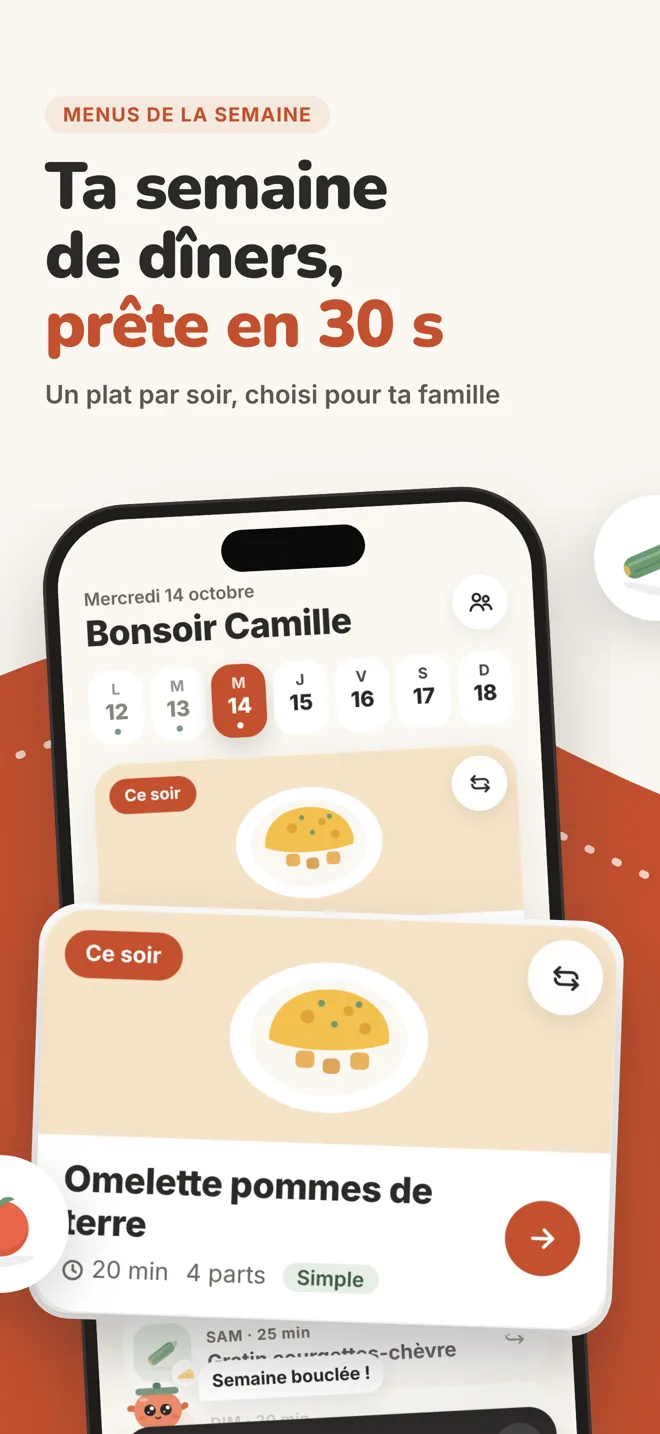
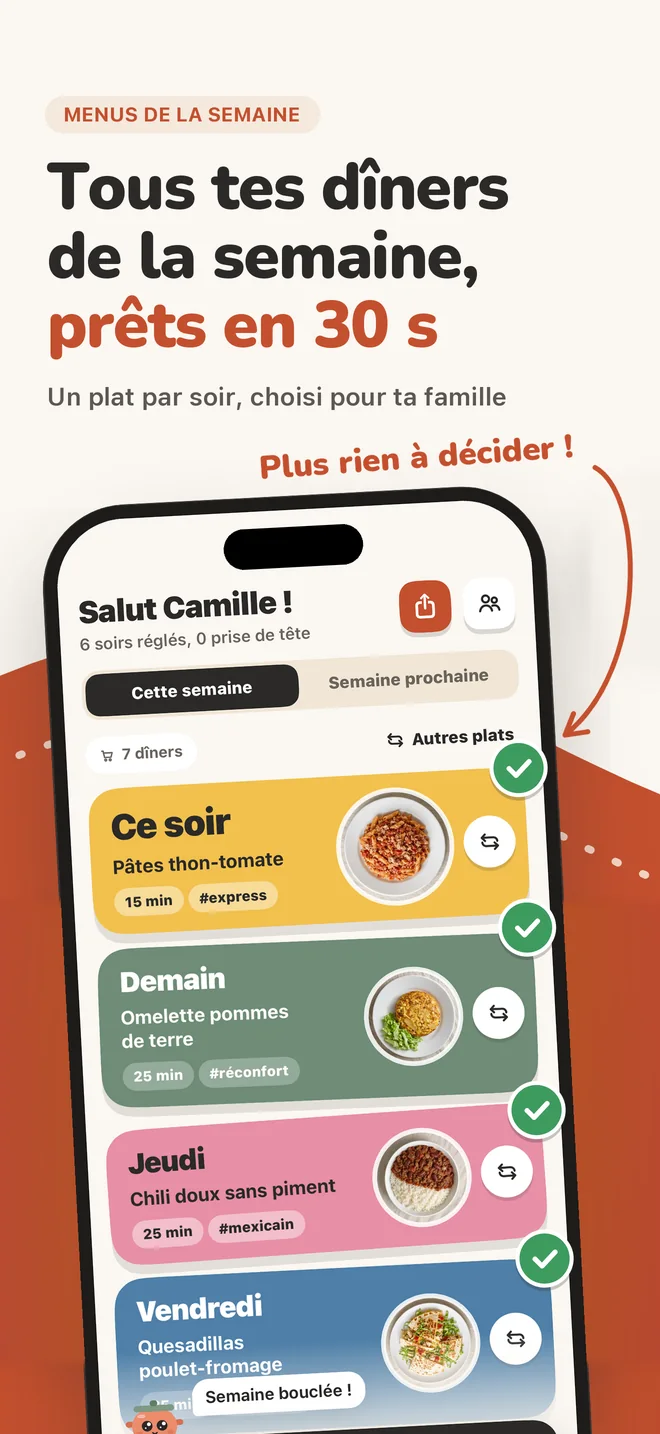
feat(mijo): current Yamzi App Store screenshots on the site, in English and French

diff --git a/fr/mijo/blog/menu-de-la-semaine-famille/index.html b/fr/mijo/blog/menu-de-la-semaine-famille/index.html
@@ -47,7 +47,7 @@
 </aside>
 <div class="prose">
 <section id="tldr" class="tldr" aria-labelledby="h-tldr"><h2 id="h-tldr">En bref</h2><ul><li>Planifier les dîners <strong>une fois par semaine</strong> évite la question quotidienne et les courses de dernière minute.</li><li>La clé : des <strong>plats simples</strong> (15 à 25 minutes), adaptés au nombre de personnes et aux aliments exclus.</li><li>Une <strong>liste unique rangée par rayon</strong> regroupe tous les ingrédients de la semaine.</li></ul></section>
-<section id="pourquoi" aria-labelledby="h-pourquoi"><h2 id="h-pourquoi">Pourquoi planifier une fois par semaine</h2><p>Décider chaque soir, c’est cumuler la fatigue de la journée et la contrainte du frigo. Planifier le dimanche permet de choisir au calme, d’équilibrer la semaine et de n’aller faire les courses qu’une fois.</p><p>Le plus important n’est pas la recette parfaite : c’est de savoir, à 17 h 30, ce qu’on cuisine ce soir.</p></section><section id="methode" aria-labelledby="h-methode"><h2 id="h-methode">La méthode en quatre étapes</h2><p>1. Comptez qui mange à la maison (un enfant compte pour une demi-portion). 2. Choisissez les soirs où vous voulez un dîner prêt. 3. Listez les aliments à exclure. 4. Répartissez viande, poisson et soirs végé.</p><figure class="figure"><img src="/assets/site/img/fr/mijo_03-courses.webp" alt="Liste de courses de Yamzi rangée par rayon" width="660" height="1434" loading="lazy"><figcaption>La liste de courses de la semaine, rangée par rayon dans Yamzi.</figcaption></figure><p>Ensuite, additionnez les ingrédients et rangez-les par rayon : fruits et légumes, frais, épicerie, surgelés. C’est exactement ce que fait Yamzi, en 30 secondes.</p></section>
+<section id="pourquoi" aria-labelledby="h-pourquoi"><h2 id="h-pourquoi">Pourquoi planifier une fois par semaine</h2><p>Décider chaque soir, c’est cumuler la fatigue de la journée et la contrainte du frigo. Planifier le dimanche permet de choisir au calme, d’équilibrer la semaine et de n’aller faire les courses qu’une fois.</p><p>Le plus important n’est pas la recette parfaite : c’est de savoir, à 17 h 30, ce qu’on cuisine ce soir.</p></section><section id="methode" aria-labelledby="h-methode"><h2 id="h-methode">La méthode en quatre étapes</h2><p>1. Comptez qui mange à la maison (un enfant compte pour une demi-portion). 2. Choisissez les soirs où vous voulez un dîner prêt. 3. Listez les aliments à exclure. 4. Répartissez viande, poisson et soirs végé.</p><figure class="figure"><img src="/assets/site/img/fr/mijo_07-courses.webp" alt="Liste de courses de Yamzi rangée par rayon" width="660" height="1434" loading="lazy"><figcaption>La liste de courses de la semaine, rangée par rayon dans Yamzi.</figcaption></figure><p>Ensuite, additionnez les ingrédients et rangez-les par rayon : fruits et légumes, frais, épicerie, surgelés. C’est exactement ce que fait Yamzi, en 30 secondes.</p></section>
 <section id="table" class="sans" aria-labelledby="h-table"><h2 id="h-table">Tableau récapitulatif</h2><div class="table-box"><table><caption>Fonctionnalités de Yamzi d’après sa fiche App Store.</caption><thead><tr><th scope=col>Étape</th><th scope=col>À la main</th><th scope=col>Avec Yamzi</th></tr></thead><tbody><tr><th scope="row">Choisir les plats</th><td>Chercher des idées pour chaque soir</td><td>Une semaine proposée en 30 secondes</td></tr><tr><th scope="row">Adapter les quantités</th><td>Recalculer chaque recette</td><td>Ajustées au foyer automatiquement</td></tr><tr><th scope="row">Exclusions</th><td>Vérifier chaque ingrédient</td><td>Jamais proposées, même en remplacement</td></tr><tr><th scope="row">Liste de courses</th><td>Recopier et additionner</td><td>Une liste unique, rangée par rayon</td></tr><tr><th scope="row">Le soir même</th><td>Retrouver la recette</td><td>Mode cuisine pas à pas, minuteur</td></tr></tbody></table></div></section>
 <section id="choose" aria-labelledby="h-choose"><h2 id="h-choose">Papier ou app ?</h2><div class="choose"><div><h3>Le papier suffit si…</h3><p>vous cuisinez souvent les mêmes plats et aimez prendre le temps de planifier.</p></div><div class=on><h3>Yamzi est fait pour vous si…</h3><p>vous voulez une semaine prête en 30 secondes, avec la liste de courses et les exclusions gérées.</p></div></div></section>
 <section id="faq" class="faq" aria-labelledby="h-faq"><h2 id="h-faq">Questions fréquentes</h2><details><summary>Combien de dîners prévoir par semaine ?</summary><p>Seulement les soirs où vous cuisinez à la maison : Yamzi vous laisse choisir les soirs.</p></details><details><summary>Comment gérer un enfant qui ne mange pas de tout ?</summary><p>Excluez les aliments concernés : ils n’apparaîtront ni dans le menu ni dans les plats de remplacement.</p></details><details><summary>Peut-on partager la liste de courses ?</summary><p>Oui, la liste se partage en un tap.</p></details></section>

diff --git a/mijo/blog/weekly-family-meal-plan/index.html b/mijo/blog/weekly-family-meal-plan/index.html
@@ -47,7 +47,7 @@
 </aside>
 <div class="prose">
 <section id="tldr" class="tldr" aria-labelledby="h-tldr"><h2 id="h-tldr">In short</h2><ul><li>Planning dinners <strong>once a week</strong> removes the daily question and last-minute shopping trips.</li><li>The key: <strong>simple dishes</strong> (15 to 25 minutes), sized for your household and free of excluded foods.</li><li>A <strong>single list sorted by aisle</strong> gathers every ingredient for the week.</li></ul></section>
-<section id="why" aria-labelledby="h-why"><h2 id="h-why">Why plan once a week</h2><p>Deciding every evening stacks the day’s fatigue on top of whatever is in the fridge. Planning on Sunday lets you choose calmly, balance the week and shop only once.</p><p>What matters is not the perfect recipe: it is knowing, at 5:30 pm, what you are cooking tonight.</p></section><section id="method" aria-labelledby="h-method"><h2 id="h-method">The four-step method</h2><p>1. Count who eats at home (a child counts as half a portion). 2. Pick the evenings you want a dinner planned. 3. List the foods to exclude. 4. Spread meat, fish and veggie nights across the week.</p><figure class="figure"><img src="/assets/site/img/fr/mijo_03-courses.webp" alt="Yamzi grocery list sorted by aisle" width="660" height="1434" loading="lazy"><figcaption>The week’s grocery list, sorted by aisle in Yamzi.</figcaption></figure><p>Then add up the ingredients and sort them by aisle: fruit and veg, chilled, pantry, frozen. That is exactly what Yamzi does, in 30 seconds.</p></section>
+<section id="why" aria-labelledby="h-why"><h2 id="h-why">Why plan once a week</h2><p>Deciding every evening stacks the day’s fatigue on top of whatever is in the fridge. Planning on Sunday lets you choose calmly, balance the week and shop only once.</p><p>What matters is not the perfect recipe: it is knowing, at 5:30 pm, what you are cooking tonight.</p></section><section id="method" aria-labelledby="h-method"><h2 id="h-method">The four-step method</h2><p>1. Count who eats at home (a child counts as half a portion). 2. Pick the evenings you want a dinner planned. 3. List the foods to exclude. 4. Spread meat, fish and veggie nights across the week.</p><figure class="figure"><img src="/assets/site/img/en/mijo_07-courses.webp" alt="Yamzi grocery list sorted by aisle" width="660" height="1434" loading="lazy"><figcaption>The week’s grocery list, sorted by aisle in Yamzi.</figcaption></figure><p>Then add up the ingredients and sort them by aisle: fruit and veg, chilled, pantry, frozen. That is exactly what Yamzi does, in 30 seconds.</p></section>
 <section id="table" class="sans" aria-labelledby="h-table"><h2 id="h-table">Summary table</h2><div class="table-box"><table><caption>Yamzi features based on its App Store listing.</caption><thead><tr><th scope=col>Step</th><th scope=col>By hand</th><th scope=col>With Yamzi</th></tr></thead><tbody><tr><th scope="row">Choosing dishes</th><td>Hunting for ideas every night</td><td>A week suggested in 30 seconds</td></tr><tr><th scope="row">Adjusting portions</th><td>Recalculating every recipe</td><td>Sized to your household automatically</td></tr><tr><th scope="row">Exclusions</th><td>Checking every ingredient</td><td>Never suggested, not even as a swap</td></tr><tr><th scope="row">Grocery list</th><td>Copying and adding up</td><td>One list, sorted by aisle</td></tr><tr><th scope="row">On the night</th><td>Finding the recipe</td><td>Step-by-step cooking mode with timer</td></tr></tbody></table></div></section>
 <section id="choose" aria-labelledby="h-choose"><h2 id="h-choose">Paper or app?</h2><div class="choose"><div><h3>Paper is enough if…</h3><p>you often cook the same dishes and enjoy taking time to plan.</p></div><div class=on><h3>Yamzi is for you if…</h3><p>you want a week ready in 30 seconds, with the grocery list and exclusions handled.</p></div></div></section>
 <section id="faq" class="faq" aria-labelledby="h-faq"><h2 id="h-faq">Frequently asked questions</h2><details><summary>How many dinners should I plan per week?</summary><p>Only the evenings you cook at home: Yamzi lets you choose which ones.</p></details><details><summary>How do I handle a picky child?</summary><p>Exclude the foods in question: they will not appear in the plan or in swaps.</p></details><details><summary>Can I share the grocery list?</summary><p>Yes, the list can be shared in one tap.</p></details></section>

diff --git a/fr/mijo/index.html b/fr/mijo/index.html
@@ -41,11 +41,11 @@
 <p class="lead">Yamzi prépare vos dîners de la semaine et la liste de courses qui va avec, en 30 secondes. Des plats de 15 à 25 minutes, adaptés à toute la famille.</p>
 <div class="app-hero__cta"><a class="btn-appstore" href="https://apps.apple.com/fr/app/id6820227149"><svg width="22" height="22" viewBox="0 0 24 24" fill="none" aria-hidden="true"><path d="M12 3v12m0 0l-5-5m5 5l5-5M5 20h14" stroke="currentColor" stroke-width="1.8" stroke-linecap="round" stroke-linejoin="round"/></svg><span><small>Télécharger dans</small><strong>l’App Store</strong></span></a><span class="app-hero__price">Gratuit au téléchargement · abonnement annuel ou mensuel · sans compte, sans pub</span></div>
 </div>
-<figure class="device"><img src="/assets/site/img/fr/mijo_02-semaine.webp" alt="La semaine de dîners prête en 30 secondes" width="660" height="1434" fetchpriority="high"></figure>
+<figure class="device"><img src="/assets/site/img/fr/mijo_02-semaine.webp" alt="Tous tes dîners de la semaine, prêts en 30 secondes" width="660" height="1434" fetchpriority="high"></figure>
 </section>
 <section class="sect" style="padding-top:0;overflow:hidden" aria-labelledby="shots-t"><div class="wrap">
 <div class="sect-head" style="margin-bottom:28px"><h2 id="shots-t" class="h3" style="font-size:clamp(28px,3vw,40px)">Yamzi en images</h2><p class="muted" style="margin:0;font-size:15px">Faites défiler les captures de l’App Store</p></div>
-<ul class="shots"><li><img src="/assets/site/img/fr/mijo_01-hero.webp" alt="Fini le casse-tête du dîner" width="660" height="1434" loading="lazy"></li><li><img src="/assets/site/img/fr/mijo_02-semaine.webp" alt="La semaine de dîners prête en 30 secondes" width="660" height="1434" loading="lazy"></li><li><img src="/assets/site/img/fr/mijo_03-courses.webp" alt="Liste de courses rangée par rayon" width="660" height="1434" loading="lazy"></li><li><img src="/assets/site/img/fr/mijo_04-des.webp" alt="Changer un plat d’un coup de dés" width="660" height="1434" loading="lazy"></li><li><img src="/assets/site/img/fr/mijo_05-cuisine.webp" alt="Mode cuisine pas à pas" width="660" height="1434" loading="lazy"></li></ul>
+<ul class="shots"><li><img src="/assets/site/img/fr/mijo_01-hero.webp" alt="On mange quoi ce soir ? Yamzi choisit les dîners de toute la semaine" width="660" height="1434" loading="lazy"></li><li><img src="/assets/site/img/fr/mijo_02-semaine.webp" alt="Tous tes dîners de la semaine, prêts en 30 secondes" width="660" height="1434" loading="lazy"></li><li><img src="/assets/site/img/fr/mijo_03-deux.webp" alt="Le dîner se décide à deux, en un message" width="660" height="1434" loading="lazy"></li><li><img src="/assets/site/img/fr/mijo_04-des.webp" alt="Changer un plat : healthy, végétarien, réconfort ou au hasard" width="660" height="1434" loading="lazy"></li><li><img src="/assets/site/img/fr/mijo_05-cuisine.webp" alt="Les recettes étape par étape, avec minuteur" width="660" height="1434" loading="lazy"></li><li><img src="/assets/site/img/fr/mijo_06-famille.webp" alt="Sans porc, sans gluten : allergies, goûts et portions pris en compte" width="660" height="1434" loading="lazy"></li><li><img src="/assets/site/img/fr/mijo_07-courses.webp" alt="Ta liste de courses rangée par rayon, déjà estimée" width="660" height="1434" loading="lazy"></li><li><img src="/assets/site/img/fr/mijo_08-rappel.webp" alt="Un rappel à 17 h 30 : ce soir, plus de prise de tête" width="660" height="1434" loading="lazy"></li></ul>
 </div></section>
 <section id="features" class="sect sect--paper" aria-labelledby="feat-t"><div class="wrap">
 <p class="eyebrow">Fonctionnalités</p>

diff --git a/mijo/index.html b/mijo/index.html
@@ -41,11 +41,11 @@
 <p class="lead">Yamzi plans your dinners for the week and the grocery list that goes with them, in 30 seconds. Easy 15–25 minute meals that suit the whole family.</p>
 <div class="app-hero__cta"><a class="btn-appstore" href="https://apps.apple.com/app/id6820227149"><svg width="22" height="22" viewBox="0 0 24 24" fill="none" aria-hidden="true"><path d="M12 3v12m0 0l-5-5m5 5l5-5M5 20h14" stroke="currentColor" stroke-width="1.8" stroke-linecap="round" stroke-linejoin="round"/></svg><span><small>Download on the</small><strong>App Store</strong></span></a><span class="app-hero__price">Free download · yearly or monthly subscription · no account, no ads</span></div>
 </div>
-<figure class="device"><img src="/assets/site/img/fr/mijo_02-semaine.webp" alt="Your week of dinners ready in 30 seconds" width="660" height="1434" fetchpriority="high"></figure>
+<figure class="device"><img src="/assets/site/img/en/mijo_02-semaine.webp" alt="All your dinners for the week, ready in 30 seconds" width="660" height="1434" fetchpriority="high"></figure>
 </section>
 <section class="sect" style="padding-top:0;overflow:hidden" aria-labelledby="shots-t"><div class="wrap">
 <div class="sect-head" style="margin-bottom:28px"><h2 id="shots-t" class="h3" style="font-size:clamp(28px,3vw,40px)">Yamzi in pictures</h2><p class="muted" style="margin:0;font-size:15px">Swipe through the App Store screenshots</p></div>
-<ul class="shots"><li><img src="/assets/site/img/fr/mijo_01-hero.webp" alt="No more dinner headaches" width="660" height="1434" loading="lazy"></li><li><img src="/assets/site/img/fr/mijo_02-semaine.webp" alt="Your week of dinners ready in 30 seconds" width="660" height="1434" loading="lazy"></li><li><img src="/assets/site/img/fr/mijo_03-courses.webp" alt="Grocery list sorted by aisle" width="660" height="1434" loading="lazy"></li><li><img src="/assets/site/img/fr/mijo_04-des.webp" alt="Swap a dish with a roll of the dice" width="660" height="1434" loading="lazy"></li><li><img src="/assets/site/img/fr/mijo_05-cuisine.webp" alt="Step-by-step cooking mode" width="660" height="1434" loading="lazy"></li></ul>
+<ul class="shots"><li><img src="/assets/site/img/en/mijo_01-hero.webp" alt="What’s for dinner tonight? Yamzi plans your dinners for the whole week" width="660" height="1434" loading="lazy"></li><li><img src="/assets/site/img/en/mijo_02-semaine.webp" alt="All your dinners for the week, ready in 30 seconds" width="660" height="1434" loading="lazy"></li><li><img src="/assets/site/img/en/mijo_03-deux.webp" alt="Settle dinner together in just one message" width="660" height="1434" loading="lazy"></li><li><img src="/assets/site/img/en/mijo_04-des.webp" alt="Swap a dish: healthy, veggie, comfort or at random" width="660" height="1434" loading="lazy"></li><li><img src="/assets/site/img/en/mijo_05-cuisine.webp" alt="Step-by-step recipes with a built-in timer" width="660" height="1434" loading="lazy"></li><li><img src="/assets/site/img/en/mijo_06-famille.webp" alt="No pork, no gluten: allergies, tastes and portions taken into account" width="660" height="1434" loading="lazy"></li><li><img src="/assets/site/img/en/mijo_07-courses.webp" alt="Your grocery list sorted by aisle" width="660" height="1434" loading="lazy"></li><li><img src="/assets/site/img/en/mijo_08-rappel.webp" alt="A quick note at 5:30 pm: tonight, no more dinner stress" width="660" height="1434" loading="lazy"></li></ul>
 </div></section>
 <section id="features" class="sect sect--paper" aria-labelledby="feat-t"><div class="wrap">
 <p class="eyebrow">Features</p>

diff --git a/fr/mijo/blog/index.html b/fr/mijo/blog/index.html
@@ -34,7 +34,7 @@
 <main id="main">
 <nav class="wrap crumbs" aria-label="Fil d’Ariane"><ol><li><a href="/fr/">Accueil</a></li><li><a href="/fr/mijo/">Yamzi</a></li><li aria-current="page">Blog</li></ol></nav>
 <section class="wrap blog-hero" aria-labelledby="blog-t"><h1 id="blog-t" class="h-display">Les dîners de la semaine, sans charge mentale.</h1><p class="lead">Méthodes de planification, idées de repas rapides et astuces pour des courses plus simples en famille.</p></section>
-<div class="wrap"><article class="feature-post"><div class="feature-post__art"><img src="/assets/site/img/fr/mijo_03-courses.webp" alt="" width="660" height="1434" loading="lazy"></div><div class="feature-post__body">
+<div class="wrap"><article class="feature-post"><div class="feature-post__art"><img src="/assets/site/img/fr/mijo_07-courses.webp" alt="" width="660" height="1434" loading="lazy"></div><div class="feature-post__body">
 <div class="post-card__meta" style="font-size:14px"><span class="chip chip--tint">Organisation</span><span>8 min de lecture</span></div>
 <h2><a href="/fr/mijo/blog/menu-de-la-semaine-famille/">Menu de la semaine en famille : planifier tous les dîners en 30 secondes</a></h2><p class="muted" style="margin:0;font-size:17px;line-height:1.55">Comment planifier les dîners de la semaine pour toute la famille, gérer les exclusions et faire une seule liste de courses rangée par rayon.</p>
 <a class="link-arrow" href="/fr/mijo/blog/menu-de-la-semaine-famille/">Lire l’article <svg width="16" height="16" viewBox="0 0 16 16" fill="none" aria-hidden="true"><path d="M3 8h10M9 4l4 4-4 4" stroke="currentColor" stroke-width="1.6" stroke-linecap="round" stroke-linejoin="round"/></svg></a></div></article><div style="height:var(--sect)"></div></div>

diff --git a/mijo/blog/index.html b/mijo/blog/index.html
@@ -34,7 +34,7 @@
 <main id="main">
 <nav class="wrap crumbs" aria-label="Breadcrumb"><ol><li><a href="/">Home</a></li><li><a href="/mijo/">Yamzi</a></li><li aria-current="page">Blog</li></ol></nav>
 <section class="wrap blog-hero" aria-labelledby="blog-t"><h1 id="blog-t" class="h-display">Weeknight dinners, without the mental load.</h1><p class="lead">Meal planning methods, quick dinner ideas and tips for simpler family grocery runs.</p></section>
-<div class="wrap"><article class="feature-post"><div class="feature-post__art"><img src="/assets/site/img/fr/mijo_03-courses.webp" alt="" width="660" height="1434" loading="lazy"></div><div class="feature-post__body">
+<div class="wrap"><article class="feature-post"><div class="feature-post__art"><img src="/assets/site/img/en/mijo_07-courses.webp" alt="" width="660" height="1434" loading="lazy"></div><div class="feature-post__body">
 <div class="post-card__meta" style="font-size:14px"><span class="chip chip--tint">Planning</span><span>8 min read</span></div>
 <h2><a href="/mijo/blog/weekly-family-meal-plan/">Weekly family meal plan: plan every dinner in 30 seconds</a></h2><p class="muted" style="margin:0;font-size:17px;line-height:1.55">How to plan the whole family’s dinners for the week, handle food exclusions and build one grocery list sorted by aisle.</p>
 <a class="link-arrow" href="/mijo/blog/weekly-family-meal-plan/">Read the article <svg width="16" height="16" viewBox="0 0 16 16" fill="none" aria-hidden="true"><path d="M3 8h10M9 4l4 4-4 4" stroke="currentColor" stroke-width="1.6" stroke-linecap="round" stroke-linejoin="round"/></svg></a></div></article><div style="height:var(--sect)"></div></div>

diff --git a/_build/content_posts.py b/_build/content_posts.py
@@ -109,7 +109,7 @@ dict(app='mijo', lang='fr', key='mijo-menu', slug='menu-de-la-semaine-famille', 
   bref=['Planifier les dîners <strong>une fois par semaine</strong> évite la question quotidienne et les courses de dernière minute.', 'La clé : des <strong>plats simples</strong> (15 à 25 minutes), adaptés au nombre de personnes et aux aliments exclus.', 'Une <strong>liste unique rangée par rayon</strong> regroupe tous les ingrédients de la semaine.'],
   sections=[
     ('pourquoi', 'Pourquoi planifier une fois par semaine', ['Décider chaque soir, c’est cumuler la fatigue de la journée et la contrainte du frigo. Planifier le dimanche permet de choisir au calme, d’équilibrer la semaine et de n’aller faire les courses qu’une fois.', 'Le plus important n’est pas la recette parfaite : c’est de savoir, à 17 h 30, ce qu’on cuisine ce soir.'], None),
-    ('methode', 'La méthode en quatre étapes', ['1. Comptez qui mange à la maison (un enfant compte pour une demi-portion). 2. Choisissez les soirs où vous voulez un dîner prêt. 3. Listez les aliments à exclure. 4. Répartissez viande, poisson et soirs végé.', 'Ensuite, additionnez les ingrédients et rangez-les par rayon : fruits et légumes, frais, épicerie, surgelés. C’est exactement ce que fait Yamzi, en 30 secondes.'], ('03-courses', 'Liste de courses de Yamzi rangée par rayon', 'La liste de courses de la semaine, rangée par rayon dans Yamzi.')),
+    ('methode', 'La méthode en quatre étapes', ['1. Comptez qui mange à la maison (un enfant compte pour une demi-portion). 2. Choisissez les soirs où vous voulez un dîner prêt. 3. Listez les aliments à exclure. 4. Répartissez viande, poisson et soirs végé.', 'Ensuite, additionnez les ingrédients et rangez-les par rayon : fruits et légumes, frais, épicerie, surgelés. C’est exactement ce que fait Yamzi, en 30 secondes.'], ('07-courses', 'Liste de courses de Yamzi rangée par rayon', 'La liste de courses de la semaine, rangée par rayon dans Yamzi.')),
   ],
   table=dict(caption='Fonctionnalités de Yamzi d’après sa fiche App Store.', head=('Étape', 'À la main', 'Avec Yamzi'), rows=[('Choisir les plats', 'Chercher des idées pour chaque soir', 'Une semaine proposée en 30 secondes'), ('Adapter les quantités', 'Recalculer chaque recette', 'Ajustées au foyer automatiquement'), ('Exclusions', 'Vérifier chaque ingrédient', 'Jamais proposées, même en remplacement'), ('Liste de courses', 'Recopier et additionner', 'Une liste unique, rangée par rayon'), ('Le soir même', 'Retrouver la recette', 'Mode cuisine pas à pas, minuteur')]),
   choose=('Papier ou app ?', [('Le papier suffit si…', 'vous cuisinez souvent les mêmes plats et aimez prendre le temps de planifier.', False), ('Yamzi est fait pour vous si…', 'vous voulez une semaine prête en 30 secondes, avec la liste de courses et les exclusions gérées.', True)]),
@@ -124,7 +124,7 @@ dict(app='mijo', lang='en', key='mijo-menu', slug='weekly-family-meal-plan', dat
   bref=['Planning dinners <strong>once a week</strong> removes the daily question and last-minute shopping trips.', 'The key: <strong>simple dishes</strong> (15 to 25 minutes), sized for your household and free of excluded foods.', 'A <strong>single list sorted by aisle</strong> gathers every ingredient for the week.'],
   sections=[
     ('why', 'Why plan once a week', ['Deciding every evening stacks the day’s fatigue on top of whatever is in the fridge. Planning on Sunday lets you choose calmly, balance the week and shop only once.', 'What matters is not the perfect recipe: it is knowing, at 5:30 pm, what you are cooking tonight.'], None),
-    ('method', 'The four-step method', ['1. Count who eats at home (a child counts as half a portion). 2. Pick the evenings you want a dinner planned. 3. List the foods to exclude. 4. Spread meat, fish and veggie nights across the week.', 'Then add up the ingredients and sort them by aisle: fruit and veg, chilled, pantry, frozen. That is exactly what Yamzi does, in 30 seconds.'], ('03-courses', 'Yamzi grocery list sorted by aisle', 'The week’s grocery list, sorted by aisle in Yamzi.')),
+    ('method', 'The four-step method', ['1. Count who eats at home (a child counts as half a portion). 2. Pick the evenings you want a dinner planned. 3. List the foods to exclude. 4. Spread meat, fish and veggie nights across the week.', 'Then add up the ingredients and sort them by aisle: fruit and veg, chilled, pantry, frozen. That is exactly what Yamzi does, in 30 seconds.'], ('07-courses', 'Yamzi grocery list sorted by aisle', 'The week’s grocery list, sorted by aisle in Yamzi.')),
   ],
   table=dict(caption='Yamzi features based on its App Store listing.', head=('Step', 'By hand', 'With Yamzi'), rows=[('Choosing dishes', 'Hunting for ideas every night', 'A week suggested in 30 seconds'), ('Adjusting portions', 'Recalculating every recipe', 'Sized to your household automatically'), ('Exclusions', 'Checking every ingredient', 'Never suggested, not even as a swap'), ('Grocery list', 'Copying and adding up', 'One list, sorted by aisle'), ('On the night', 'Finding the recipe', 'Step-by-step cooking mode with timer')]),
   choose=('Paper or app?', [('Paper is enough if…', 'you often cook the same dishes and enjoy taking time to plan.', False), ('Yamzi is for you if…', 'you want a week ready in 30 seconds, with the grocery list and exclusions handled.', True)]),

diff --git a/_build/content_apps.py b/_build/content_apps.py
@@ -108,9 +108,9 @@ APPS = {
   'store': {'en': 'https://apps.apple.com/app/id6820227149', 'fr': 'https://apps.apple.com/fr/app/id6820227149'},
   'category': 'LifestyleApplication', 'offers': [('0', 'EUR')],
   'colors': dict(strong='#C4502F', bright='#F6C343', tint='#F4E9DD', wash='#FBF7F1', deep='#2F3A33', ondark='#F6C343', mutedd='#CBD5CD', bord='#46534A', panel='linear-gradient(160deg,#D05C38,#B8462A)', inktint='#6B2A15'),
-  'shots': ['01-hero', '02-semaine', '03-courses', '04-des', '05-cuisine'],
+  'shots': ['01-hero', '02-semaine', '03-deux', '04-des', '05-cuisine', '06-famille', '07-courses', '08-rappel'],
   'shot_prefix': 'mijo_', 'hero_shot': '02-semaine', 'video': None,
-  'shot_lang_fallback': 'fr',  # TODO: captures anglaises de Yamzi non disponibles
+  'shot_lang_fallback': 'fr',
   'i18n': {
    'fr': dict(
      title='Yamzi — menus de la semaine et liste de courses en 30 secondes',
@@ -119,7 +119,7 @@ APPS = {
      h1='Fini le casse-tête du dîner.',
      lead='Yamzi prépare vos dîners de la semaine et la liste de courses qui va avec, en 30 secondes. Des plats de 15 à 25 minutes, adaptés à toute la famille.',
      price_line='Gratuit au téléchargement · abonnement annuel ou mensuel · sans compte, sans pub',
-     shot_alts=['Fini le casse-tête du dîner', 'La semaine de dîners prête en 30 secondes', 'Liste de courses rangée par rayon', 'Changer un plat d’un coup de dés', 'Mode cuisine pas à pas'],
+     shot_alts=['On mange quoi ce soir ? Yamzi choisit les dîners de toute la semaine', 'Tous tes dîners de la semaine, prêts en 30 secondes', 'Le dîner se décide à deux, en un message', 'Changer un plat : healthy, végétarien, réconfort ou au hasard', 'Les recettes étape par étape, avec minuteur', 'Sans porc, sans gluten : allergies, goûts et portions pris en compte', 'Ta liste de courses rangée par rayon, déjà estimée', 'Un rappel à 17 h 30 : ce soir, plus de prise de tête'],
      feat_title='Une semaine de dîners, sans y penser.',
      features=[('Adaptée à votre famille', 'Les quantités s’ajustent au nombre de personnes ; un enfant compte pour une demi-portion.'), ('Jamais ce que vous ne mangez pas', 'Porc, gluten, arachides, coriandre… ce que vous excluez n’apparaît jamais, même en remplacement.'), ('Change un plat d’un geste', 'Trois idées pour le remplacer, ou laissez Yamzi tirer au sort avec ses dés.'), ('Une seule liste de courses', 'Tous les ingrédients additionnés, arrondis au paquet et rangés par rayon. À cocher et partager.'), ('Mode cuisine', 'Une étape à la fois, en gros caractères, avec minuteur. L’écran reste allumé.'), ('Yamzi te fait signe', 'Le plat du soir à 17 h 30, la liste le samedi, la semaine suivante le dimanche.')],
      hl=('La promesse', 'Le dîner, réglé en 30 secondes.', 'Moins de charge mentale, sans compte ni publicité : vos préférences restent sur votre iPhone.', [('30 s', 'Pour planifier la semaine'), ('15–25', 'Minutes par plat'), ('0', 'Compte, pub ou traceur')]),
@@ -136,7 +136,7 @@ APPS = {
      h1='No more “what’s for dinner?”',
      lead='Yamzi plans your dinners for the week and the grocery list that goes with them, in 30 seconds. Easy 15–25 minute meals that suit the whole family.',
      price_line='Free download · yearly or monthly subscription · no account, no ads',
-     shot_alts=['No more dinner headaches', 'Your week of dinners ready in 30 seconds', 'Grocery list sorted by aisle', 'Swap a dish with a roll of the dice', 'Step-by-step cooking mode'],
+     shot_alts=['What’s for dinner tonight? Yamzi plans your dinners for the whole week', 'All your dinners for the week, ready in 30 seconds', 'Settle dinner together in just one message', 'Swap a dish: healthy, veggie, comfort or at random', 'Step-by-step recipes with a built-in timer', 'No pork, no gluten: allergies, tastes and portions taken into account', 'Your grocery list sorted by aisle', 'A quick note at 5:30 pm: tonight, no more dinner stress'],
      feat_title='A week of dinners, without the thinking.',
      features=[('Fits your family', 'Portions adjust to how many people eat at home; a child counts as half a portion.'), ('Never what you don’t eat', 'Pork, gluten, peanuts, coriander… anything you exclude never shows up, not even as a swap.'), ('Swap a dish in one tap', 'Three ideas to replace it, or let Yamzi roll the dice.'), ('One grocery list', 'Every ingredient added up, rounded to the pack and sorted by aisle. Tick it off and share it.'), ('Cooking mode', 'One step at a time, in large type, with a timer. The screen stays on.'), ('Friendly reminders', 'Tonight’s dish at 5:30 pm, the list on Saturday, next week’s plan on Sunday.')],
      hl=('The promise', 'Dinner, sorted in 30 seconds.', 'Less mental load, no account and no ads: your preferences stay on your iPhone.', [('30 s', 'To plan the week'), ('15–25', 'Minutes per dish'), ('0', 'Accounts, ads or trackers')]),
